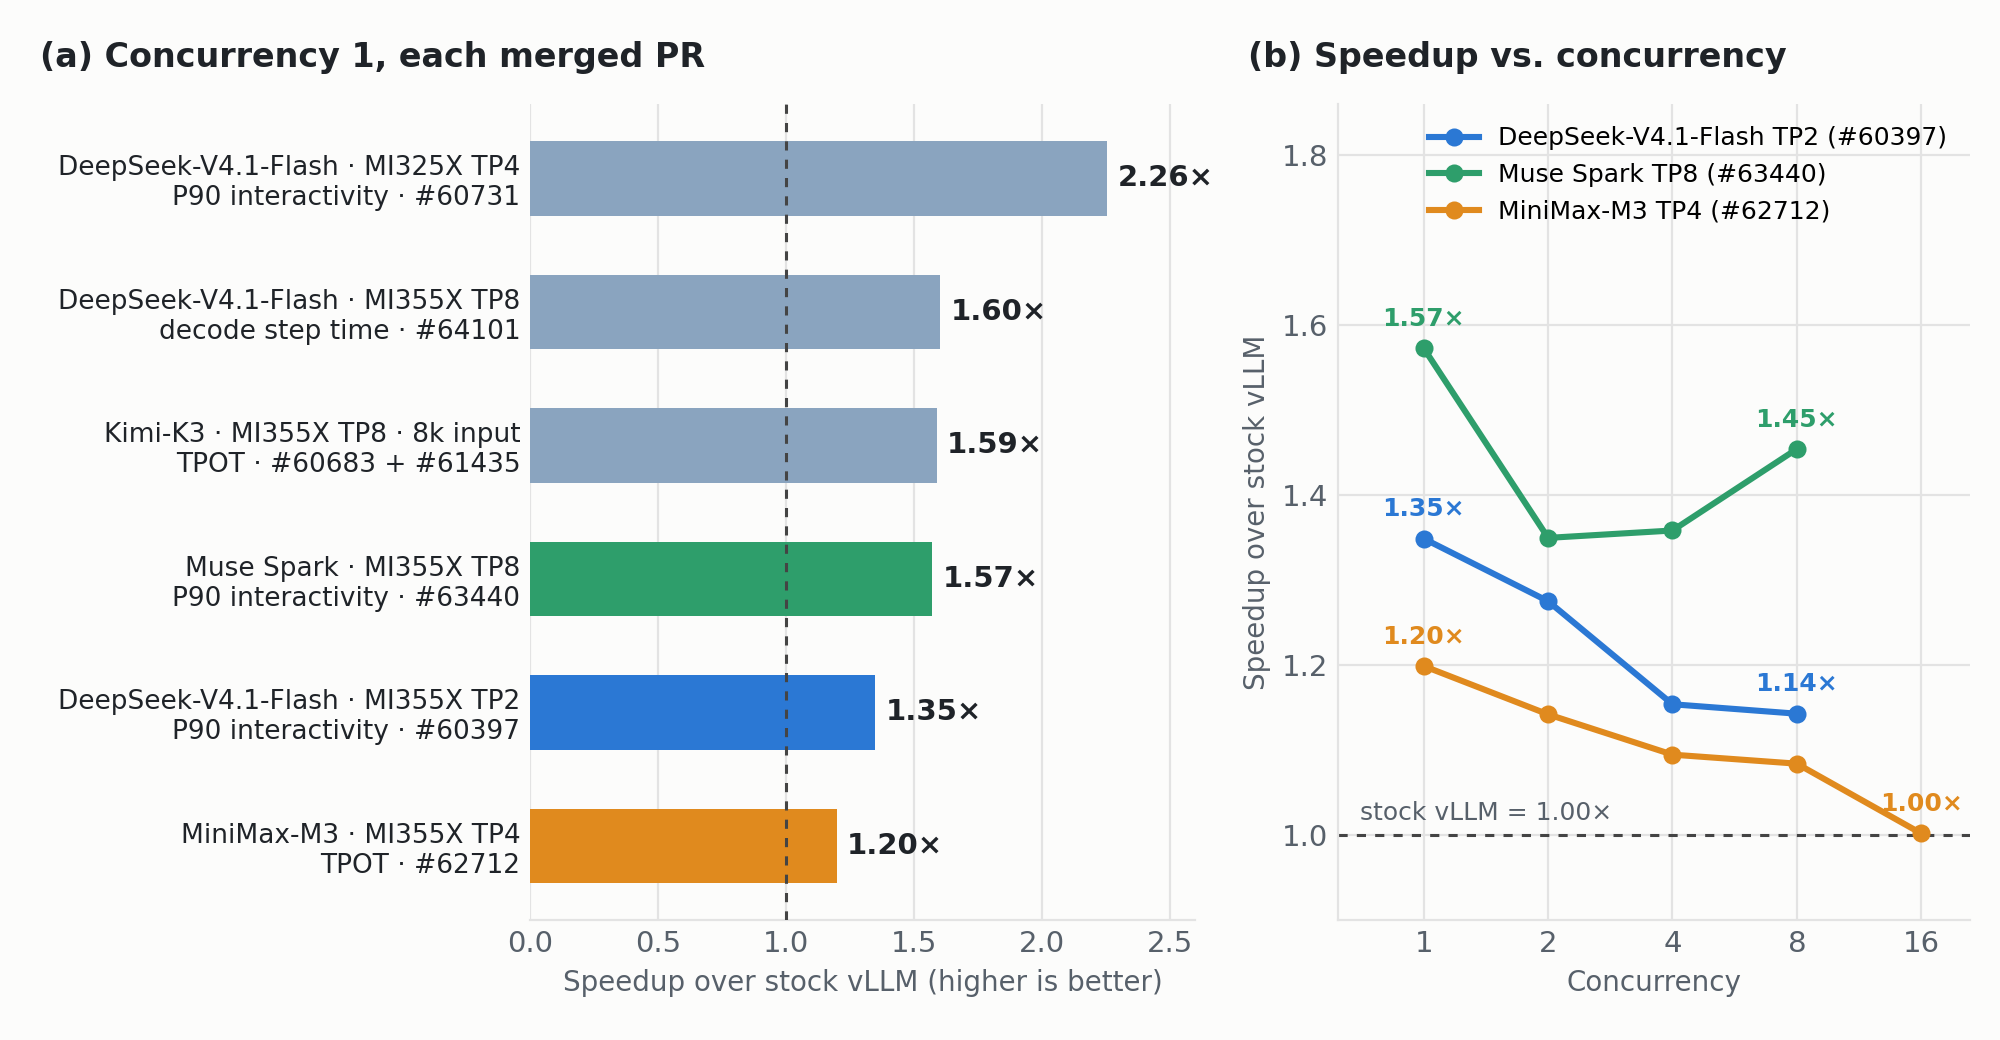
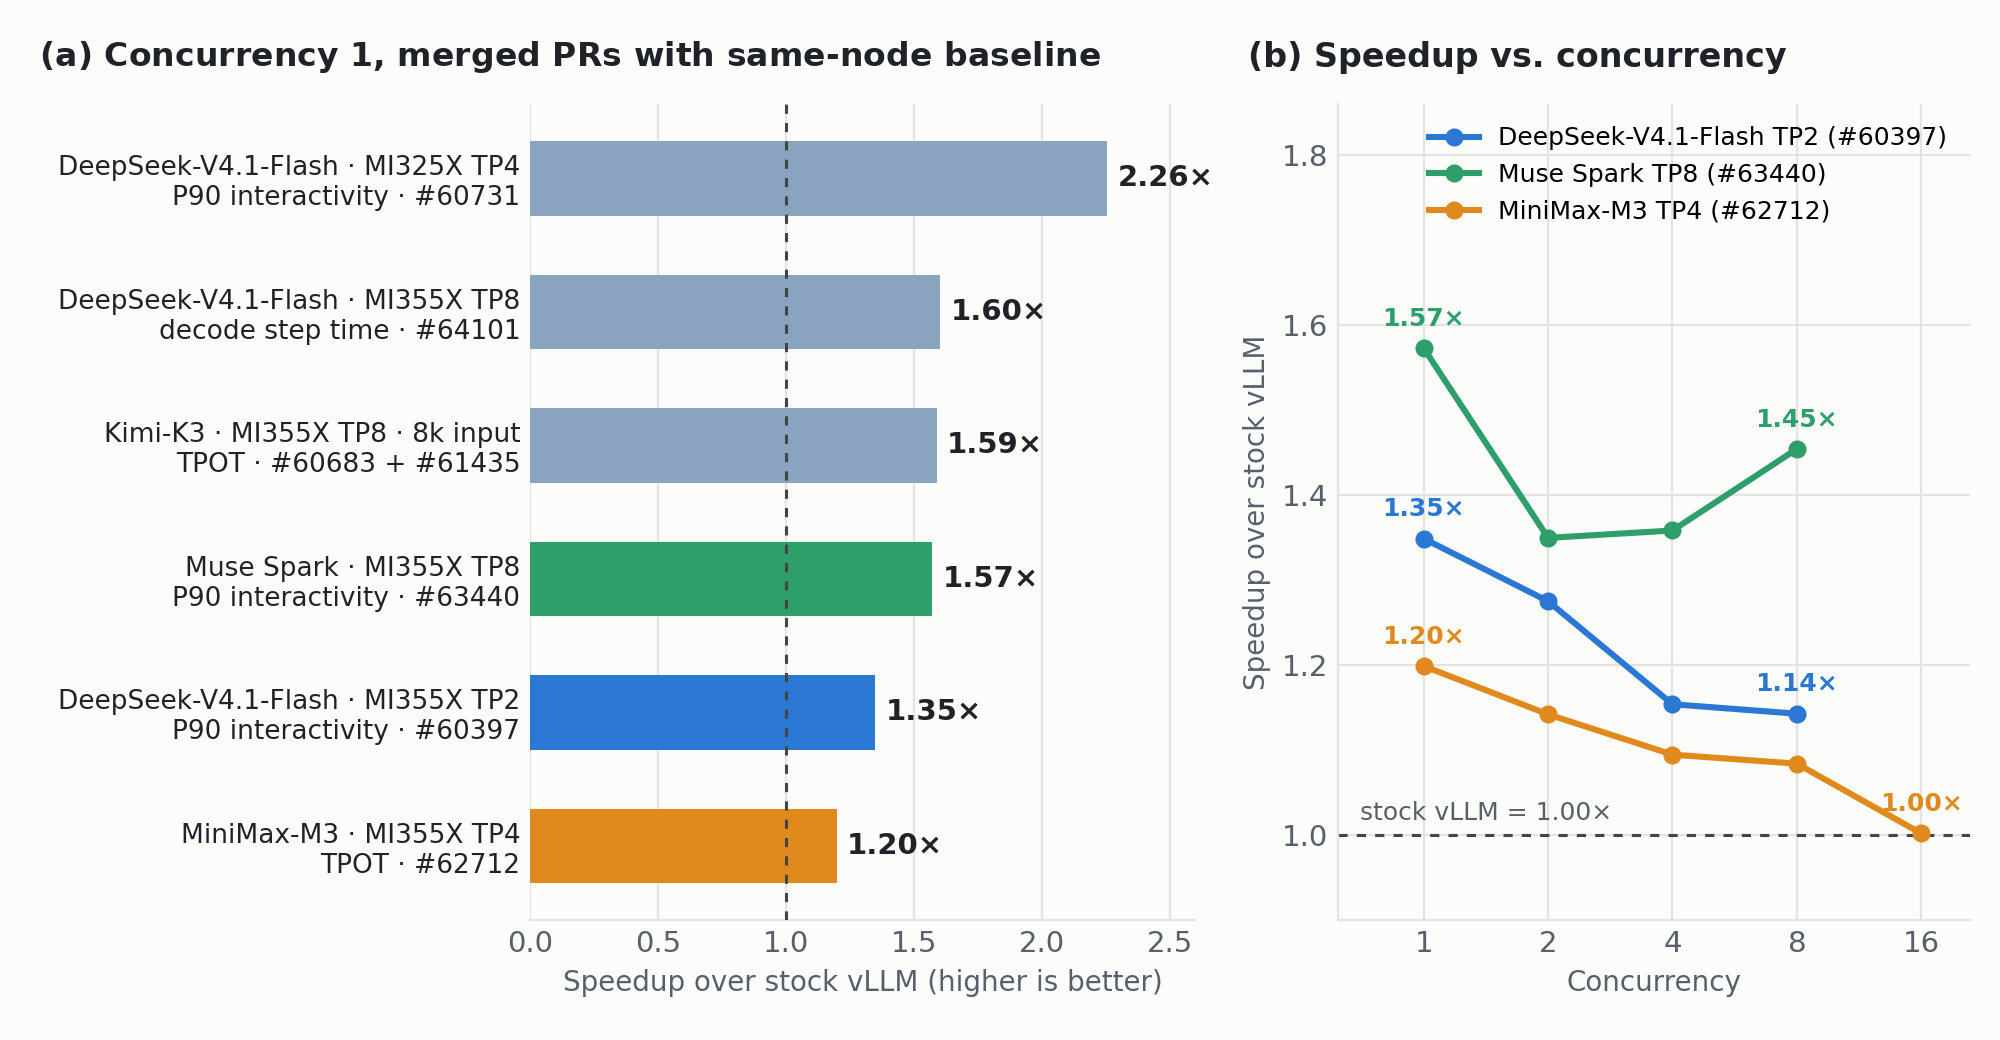
docs: retitle Fig. 5a and simplify TP8 accuracy note

Changed region(s): [[0.062, 0.0308, 0.558, 0.0923]]

diff --git a/_posts/2026-11-05-flydsl-monokernels.md b/_posts/2026-11-05-flydsl-monokernels.md
@@ -94,7 +94,7 @@ The merged-PR evaluations summarized in Figure 5 were measured by their authors 
 
 The **MI300X/MI325X port** ([#60731](https://github.com/vllm-project/vllm/pull/60731)) cuts a standard decoder layer from 32 kernels in 320 µs to 2 kernels in 115 µs. At TP4 on MI325X with AgentX, concurrency-1 P90 interactivity goes from 182.25 to 411.26 tok/s/user and total throughput per GPU rises 1.63×; at concurrency 2 / 4 / 8, P90 interactivity is 2.41× / 2.22× / 1.99× InferenceX's published MI325X points.
 
-At **TP8 on MI355X** ([#64101](https://github.com/vllm-project/vllm/pull/64101)), each rank streams half as many weights as at TP4 while the K1/K2 chain stays the same length, so mono decode still pays off at concurrency 1. On one TP8 server with only `--monokernel` toggled, a decode step with DSpark speculative decoding drops from 8.59 to 5.36 ms (392 → 580 tok/s). These step-time measurements use a synthetic acceptance length of 3.87 to isolate step time from acceptance. This PR also reports an unresolved GSM8K accuracy gap (see the [Accuracy section](#accuracy)). The **DSpark draft model** runs on the same kernels ([#62131](https://github.com/vllm-project/vllm/pull/62131)): its three layers take about 227 µs per step instead of about 640 µs, with no change in acceptance length.
+At **TP8 on MI355X** ([#64101](https://github.com/vllm-project/vllm/pull/64101)), each rank streams half as many weights as at TP4 while the K1/K2 chain stays the same length, so mono decode still pays off at concurrency 1. On one TP8 server with only `--monokernel` toggled, a decode step with DSpark speculative decoding drops from 8.59 to 5.36 ms (392 → 580 tok/s). These step-time measurements use a synthetic acceptance length of 3.87 to isolate step time from acceptance; accuracy for this TP8 configuration is still being evaluated (see the PR). The **DSpark draft model** runs on the same kernels ([#62131](https://github.com/vllm-project/vllm/pull/62131)): its three layers take about 227 µs per step instead of about 640 µs, with no change in acceptance length.
 
 ### DeepSeek-V4-Pro
 
@@ -121,7 +121,6 @@ RFC [#60904](https://github.com/vllm-project/vllm/issues/60904) measured the GLM
 Fused kernels can change rounding, accumulation, and reduction order, so accuracy must be evaluated for each model and configuration. The following task-level results are reported by the linked PRs:
 
 - **DeepSeek-V4.1-Flash, TP2** (RFC [#59665](https://github.com/vllm-project/vllm/issues/59665) protocol, paired by question)**:** GPQA-Diamond 85.3 → 85.1 (Δ −0.2 ± 0.6), AIME25 99.4 → 98.3 (Δ −1.0 ± 0.7), and RULER NIAH 40/40 in every cell.
-- **DeepSeek-V4.1-Flash, MI355X:** Across configurations reported in [#64101](https://github.com/vllm-project/vllm/pull/64101), GSM8K scores range from **0.910 to 0.929 with mono** and **0.919 to 0.923 with stock vLLM**. These ranges do not establish accuracy parity; the PR still reports an unexplained gap.
 - **DeepSeek-V4.1-Flash, MI325X:** GSM8K 92.5 → 92.7 (p = 0.49).
 - **MiniMax-M3:** GSM8K 89.7 → 90.5 (p = 0.37).
 - **Kimi-K3:** GSM8K 96.0 → 96.3 and GPQA-Diamond 92.4 → 93.9; with mono on, RULER NIAH scores 1.0 at every length up to 256K.
